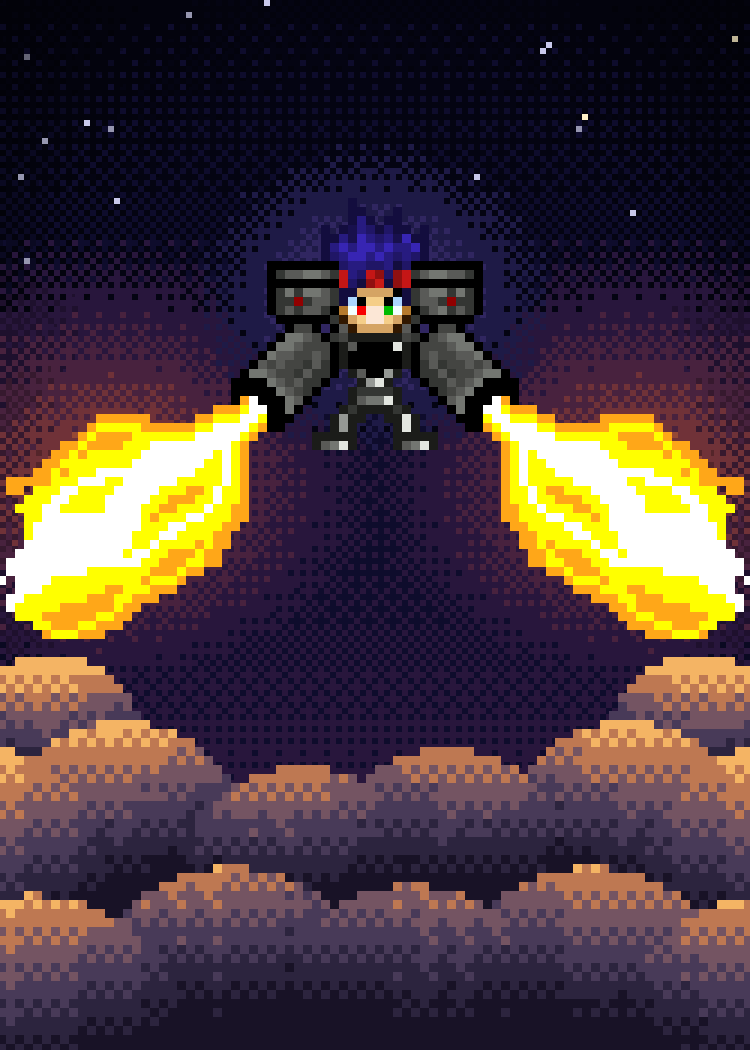
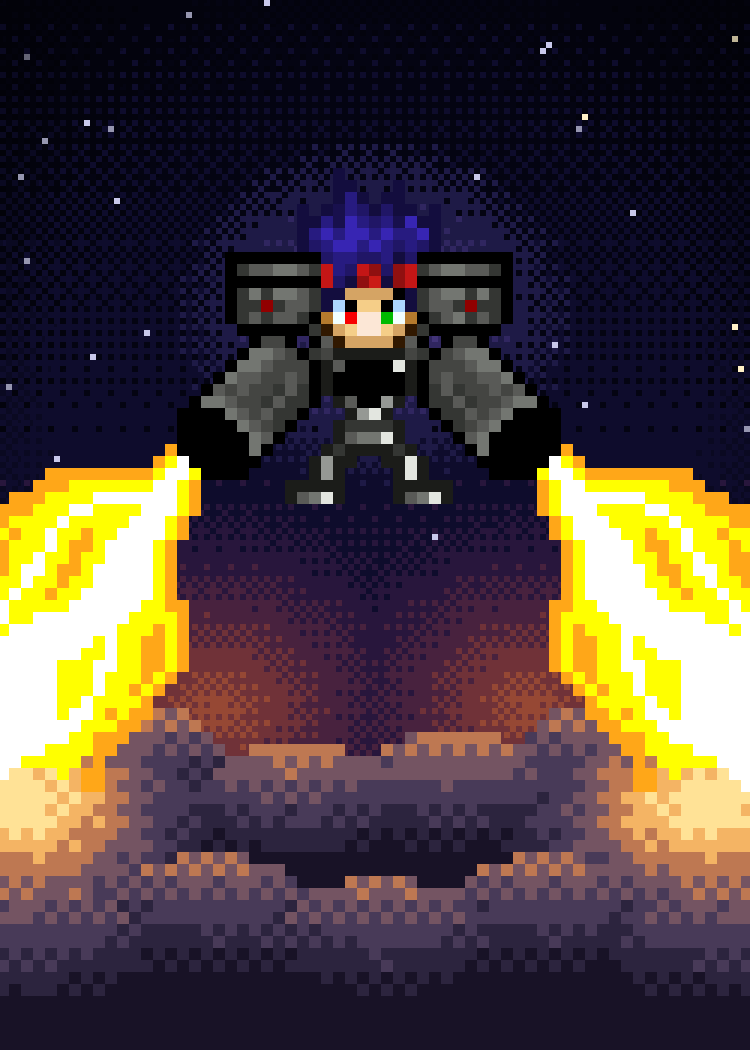
Runde 4: Zwischenstand der Entwürfe (in Arbeit)
Claude-Session: https://claude.ai/code/session_01TEnvTzH2xD44R6Unjv7vDo

diff --git a/data/sleeve-proposals/runde4/generator/s12_afterburner.py b/data/sleeve-proposals/runde4/generator/s12_afterburner.py
@@ -1,16 +1,17 @@
 # -*- coding: utf-8 -*-
-"""12 Afterburner – Andras, die menschliche Waffe, steigt nachts in den Himmel auf: seine beiden
-Armkanonen feuern als Triebwerke schräg nach unten, unter ihm quillt eine Rauchbank, die vom
-Feuerschein orange angestrahlt wird.
+"""12 Afterburner – Andras, die menschliche Waffe, steigt nachts über einem Wolkenmeer auf: seine beiden
+Armkanonen zeigen schräg nach unten und feuern als Triebwerke zwei Schubflammen senkrecht nach unten,
+die Wolkenkämme direkt darunter glühen orange.
 
 Quellen (MotiveGN.xcf):
   Ebene 448 „Andras“ – Andras mit Armkanonen (Karte „Andras, the Human Weapon“)
-  Ebene 445 „Andras #2“ – die beiden Triebwerksflammen der Armkanonen
+  Ebene 445 „Andras #2“ – Flamme der Armkanone (rechte Flamme, um 90° gedreht und für die linke
+      Kanone gespiegelt, damit der Schub nach unten geht)
       (geprüft gegen Szene 7 „Sichtbar #145“: Andras + Flammen vollständig; die Rakete 446/447 der Szene
        ist ein eigenes Geschoss und bleibt weg – Szene 5 „Sichtbar #147“ zeigt Andras ebenfalls ohne sie)
 Tiefenebenen / Skalierung (250×350-Raster, Ausgabe ×3):
   Himmel, Sterne, Feuerschein am Himmel 2× (Raster 125×175);
-  Andras + Flammen, Rauchbank 3× (Raster 84×117) – in einer Ebene gebaut und einmal hochskaliert.
+  Andras + Schubflammen + Wolkenbank 4× (Raster 63×88) – in einer Ebene gebaut und einmal hochskaliert.
 """
 import sys, os, math
 from common import *  # noqa
@@ -32,7 +33,7 @@ GLOW = [(40, 22, 60), (72, 34, 62), (112, 50, 56), (150, 72, 52)]
 for y in range(175):
     for x in range(125):
         g = 0
-        for cx, cy, r in [(18, 80, 50), (107, 80, 50)]:
+        for cx, cy, r in [(36, 118, 44), (89, 118, 44)]:
             g = max(g, 1 - math.hypot(x + .5 - cx, (y + .5 - cy) * 1.2) / r)
         if g <= 0: continue
         t = g ** 1.2 * len(GLOW)
@@ -43,7 +44,7 @@ for y in range(175):
 HALO = [(30, 26, 70), (48, 38, 96), (66, 52, 120)]
 for y in range(175):
     for x in range(125):
-        g = 1 - math.hypot(x + .5 - 62.5, (y + .5 - 50) * 1.15) / 30
+        g = 1 - math.hypot(x + .5 - 62.5, (y + .5 - 52) * 1.15) / 34
         if g <= 0: continue
         t = g * len(HALO); i = int(t); f = t - i
         if f > BAYER4[y % 4, x % 4]: i += 1
@@ -52,49 +53,57 @@ cv = Canvas(W, H)
 cv.a[:] = up(np.dstack([bg.a, np.full((175, 125), 255, np.uint8)]), 2)[:H, :W, :3]
 vignette_grid(cv, 0.5, 0.6, g=2)
 
-# ---------------------------------------------------------------- Vordergrund (3×)
-G = 3
-fw, fh = 84, 117
-
-andras = sprite('c12_andras', D, [445, 448])          # 84×49, Kopfmitte bei x=42
-AX, AY = 0, 22                                        # linke obere Ecke im 84er-Raster
-
+# ---------------------------------------------------------------- Vordergrund (4×)
+G = 4
+fw, fh = 63, 88
+andras = sprite('c12_andras_body', D, [448])          # 28×32, Armkanonen unten links/rechts
+fl = [p for p in parts(sprite('c12_flames', D, [445]), dil=1)]
+R = fl[1]                                             # rechte Flamme: Ansatz oben links, weht nach rechts unten
+down = rot90(R, -1)                                   # 90° im Uhrzeigersinn: Ansatz oben rechts, weht nach unten (leicht links)
+FLL = down                                            # linke Kanone: Schub nach unten, leicht nach außen (links)
+FLR = flip(down)                                      # rechte Kanone: gespiegelt
+AX, AY = (fw - 32) // 2, 14                           # Andras: x 60..188, y 56..168
 yy, xx = np.mgrid[0:fh, 0:fw]
+out = np.zeros((fh, fw, 4), np.uint8)
+# Flammen-Ansatz an den Mündungen (Kanonenenden Zeile 24/25, Spalte 1 bzw. 30)
+fh_, fw_ = FLL.shape[:2]
+LXp, LYp = AX + 3 - fw_, AY + 23
+RXp, RYp = AX + 29, AY + 23
+PL = (LXp + fw_ // 2 - 2, LYp + fh_)                  # Flammenenden (für den Glutschein auf den Wolken)
+PR = (RXp + fw_ // 2 + 2, RYp + fh_)
 
-# Rauchbank: Vereinigung von Kreisen (Wolkenpuffs), von oben angestrahlt
-puffs = [(-6, 98, 18), (14, 93, 14), (34, 97, 13), (50, 95, 13), (70, 93, 14), (90, 98, 18),
-         (4, 114, 16), (26, 110, 15), (46, 112, 15), (66, 110, 15), (86, 114, 16),
-         (6, 82, 10), (78, 82, 10)]
+# Wolkenbank: Vereinigung von Kreisen, von oben angestrahlt; direkt unter den Flammen glühend
+puffs = [(-4, 72, 13), (10, 68, 11), (25, 71, 10), (38, 70, 10), (52, 68, 11), (66, 72, 13),
+         (2, 84, 12), (18, 81, 11), (32, 83, 11), (46, 81, 11), (62, 84, 12)]
 smoke = np.zeros((fh, fw), bool)
-for cx, cy, r in puffs:
-    smoke |= np.hypot(xx + .5 - cx, (yy + .5 - cy) * 1.1) < r
 light = np.zeros((fh, fw))
 for cx, cy, r in puffs:
     d = np.hypot(xx + .5 - cx, (yy + .5 - cy) * 1.1)
     m = d < r
-    side = 0.25 * abs(xx + .5 - 42) / 42         # nahe den Flammen stärker angestrahlt
-    l = np.clip(((cy - (yy + .5)) / r) * 0.85 + 0.28 + side - 0.2 * (d / r) - 0.006 * (yy - 80), 0, 1) ** 1.2
+    smoke |= m
+    l = np.clip(((cy - (yy + .5)) / r) * 0.8 + 0.18 - 0.2 * (d / r) - 0.006 * (yy - 62), 0, 1)
     light = np.where(m, np.maximum(light, l), light)
-SM = [(24, 18, 38), (44, 36, 62), (72, 58, 88), (116, 84, 98), (190, 120, 82), (244, 180, 100)]
-
-out = np.zeros((fh, fw, 4), np.uint8)
+for (px, py) in (PL, PR):                             # Glut direkt unter den Flammen
+    d = np.hypot(xx + .5 - px, (yy + .5 - py) * 1.4) / 16
+    light = np.maximum(light, np.where(smoke, np.clip(1.15 - d, 0, 1), 0))
+light = light ** 1.1
+SM = [(24, 18, 38), (44, 36, 62), (72, 58, 88), (116, 84, 98), (190, 120, 82), (244, 180, 100), (255, 226, 150)]
 for y in range(fh):
     for x in range(fw):
-        th = BAYER4[y % 4, x % 4]
         if smoke[y, x]:
             t = light[y, x] * (len(SM) - 1)
             i = int(t); f = t - i
-            if i < len(SM) - 1 and f > th: i += 1
+            if i < len(SM) - 1 and f > BAYER4[y % 4, x % 4]: i += 1
             out[y, x] = SM[i] + (255,)
-# Figur über den Rauch (die Flammen ragen seitlich über die Rauchbank)
-h, w = andras.shape[:2]
-for j in range(h):
-    for i in range(w):
-        if andras[j, i, 3]:
-            X, Y = AX + i, AY + j
-            if 0 <= X < fw and 0 <= Y < fh: out[Y, X] = andras[j, i]
+def put(s, x0, y0):
+    for j in range(s.shape[0]):
+        for i in range(s.shape[1]):
+            if s[j, i, 3] and 0 <= x0 + i < fw and 0 <= y0 + j < fh:
+                out[y0 + j, x0 + i] = s[j, i]
+put(FLL, LXp, LYp)
+put(FLR, RXp, RYp)
+put(andras, AX, AY)
 
 FG = up(out, G)
-cv.paste(FG[:H, 1:W + 1], 0, 0)                    # 1 px nach links, damit Kopfmitte = Bildmitte
-
+cv.paste(FG[:H, 1:W + 1], 0, 0)
 print(save(cv, '12_afterburner.png'))
